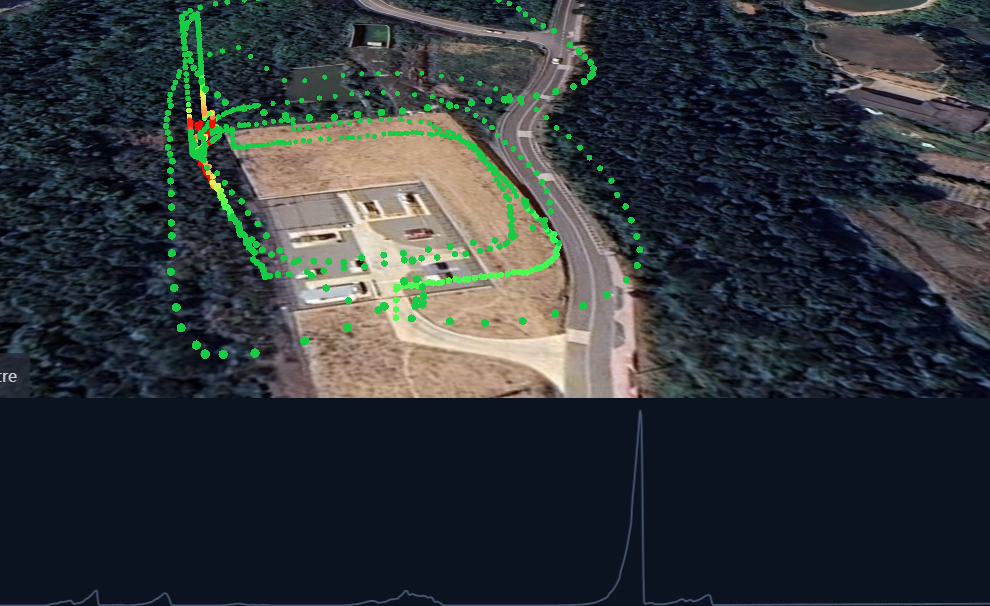
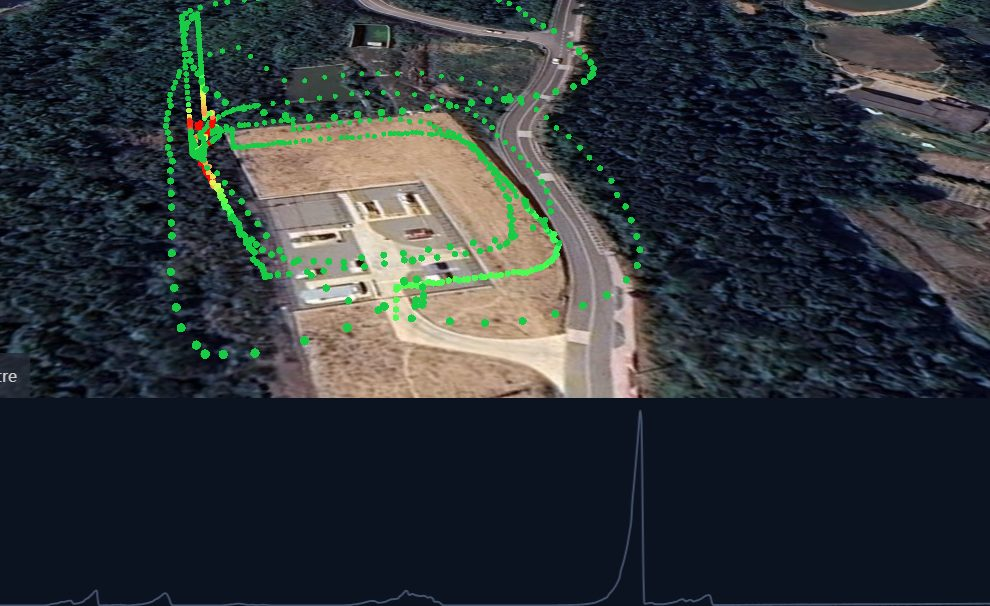
Swap in methane detection visual for the Onboard AI / reporting row
Replaces the Cesium mission-path placeholder with the aerial methane
detection point-cloud (measurements, leak hotspot, spectral readout).
Labelled "Example output" since the TDLAS payload is a planned
procurement, matching the pitch deck's own "(Example)" convention.
Removed the now-unused mission-path asset.

diff --git a/src/components/WhatWeDo.tsx b/src/components/WhatWeDo.tsx
@@ -3,7 +3,7 @@ import { Reveal } from "@/components/motion/Reveal";
 import { SolarWingIcon, LaserSensorIcon, MethaneIcon } from "@/components/brand/icons";
 import uavSky from "@/assets/uav-sky-new.jpg";
 import flyover from "@/assets/hero-refinery-flyover.jpg";
-import missionPath from "@/assets/mission-path.jpg";
+import methaneDetection from "@/assets/methane-detection.jpg";
 
 const ease = [0.22, 1, 0.36, 1] as const;
 
@@ -43,8 +43,9 @@ const rows = [
       { v: "In-flight", l: "Processing" },
       { v: "Geotagged", l: "Reports" },
     ],
-    img: missionPath,
-    alt: "Autonomous mission flight path over a facility",
+    img: methaneDetection,
+    alt: "Aerial methane detection point-cloud over a facility, with a leak hotspot and spectral readout",
+    tag: "Example output",
   },
 ];
 
@@ -100,6 +101,11 @@ const WhatWeDo = () => {
                 <div className="relative rounded-3xl overflow-hidden shadow-[0_30px_70px_-30px_hsl(var(--navy)/0.4)] border border-navy/5">
                   <img src={r.img} alt={r.alt} loading="lazy" className="w-full aspect-[4/3] object-cover" />
                   <div className="absolute inset-0 bg-gradient-to-t from-navy/20 to-transparent" />
+                  {r.tag && (
+                    <span className="absolute top-4 left-4 px-3 py-1.5 rounded-full bg-navy/70 backdrop-blur-sm text-gold text-[10px] font-mono uppercase tracking-wider">
+                      {r.tag}
+                    </span>
+                  )}
                 </div>
               </motion.div>
             </div>
